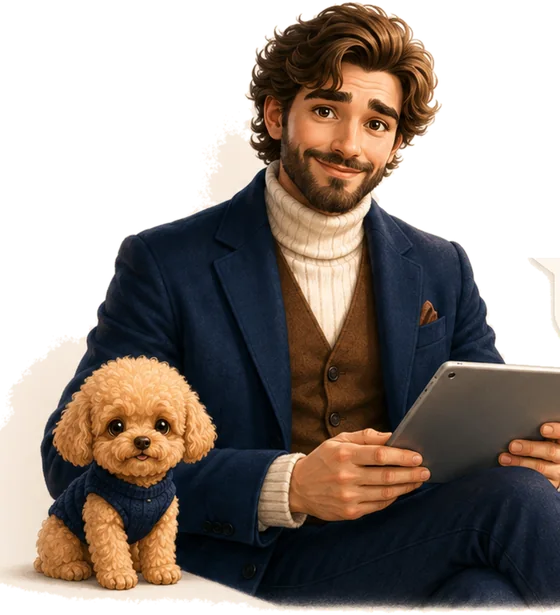
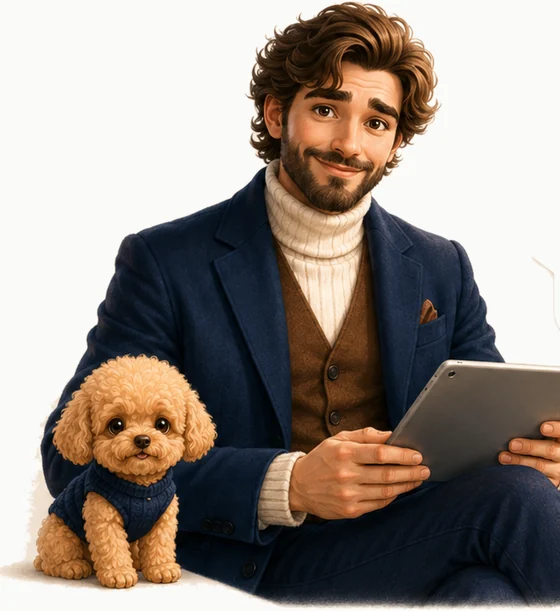
Картинка Платона лежит на цвете ленты, а не белым пятном
Прозрачный вырез оставил вокруг фигуры собственную тень рисунка — белёсый
ореол. На панели он читался прямоугольником, наклеенным поверх, и на телефоне
это было особенно видно (замечание владельца, 19.08.2026).

Фон картинки теперь ровно тот же цвет, что у ленты сообщений: тень ложится на
него и не видна вовсе. Тест держит их вместе — смена цвета панели без замены
картинки вернула бы коробку, и это должно валить сборку, а не открываться на
телефоне владельца.

Заодно файл похудел с 50 до 37 КБ: сплошной фон жмётся лучше прозрачности.

Claude-Session: https://claude.ai/code/session_01WDFVRHrnwdRqPbRXE8vzzr

diff --git a/tests/test_platon_window_has_a_face.py b/tests/test_platon_window_has_a_face.py
@@ -66,3 +66,29 @@ def test_the_report_stays_without_pictures():
     source = inspect.getsource(core._build_developaid_pdf)
     assert "platon-hero" not in source
     assert "aiHero" not in source
+
+
+def test_the_picture_sits_on_the_panel_colour():
+    """Собственная тень рисунка ложится на цвет ленты, а не светлым ореолом.
+
+    Прозрачный вырез оставлял вокруг фигуры белёсый след — на телефоне он читался
+    прямоугольником, наклеенным поверх панели (замечание владельца, 19.08.2026).
+    Поэтому фон картинки — ровно тот же цвет, что у ленты сообщений; тест держит
+    их вместе, иначе смена цвета панели вернёт коробку.
+    """
+    pytest = __import__("pytest")
+    Image = pytest.importorskip("PIL.Image", reason="Pillow недоступен")
+    import re
+
+    css = re.search(r"\.ai-messages\{[^}]*background:(#[0-9a-fA-F]{6})", core.PAGE)
+    assert css, "фон ленты сообщений не объявлен"
+    panel = css.group(1).lower()
+    expected = tuple(int(panel[i:i + 2], 16) for i in (1, 3, 5))
+
+    path = Path(__file__).resolve().parent.parent / "assets" / "platon-hero.webp"
+    picture = Image.open(path).convert("RGB")
+    for corner in ((0, 0), (picture.width - 1, 0), (0, picture.height - 1)):
+        got = picture.getpixel(corner)
+        # webp сжимает с потерями и уводит канал на единицу-другую: глазу это
+        # недоступно, а точного равенства требовать бессмысленно.
+        assert all(abs(a - b) <= 4 for a, b in zip(got, expected)), (corner, got, expected)

diff --git a/main_legacy.py b/main_legacy.py
@@ -49,7 +49,7 @@ import project_preset
 # поднимали разом вручную. Стоило один раз поднять только обёртку, и стенд стал
 # неотличим от невыкаченного: бот показывал 0.13.6, а `/health`, страница и
 # заголовок ответа — 0.13.4. Обёртка `main.py` берёт значение отсюда же.
-VERSION = "0.18.97"
+VERSION = "0.18.98"
 # Коммит, из которого собран образ. Версия отвечает на «что выпущено», коммит —
 # на «что сейчас крутится»: одна версия живёт много правок, и по ней не отличить
 # выкаченный образ от собранного часом раньше. Значение запекается сборкой
